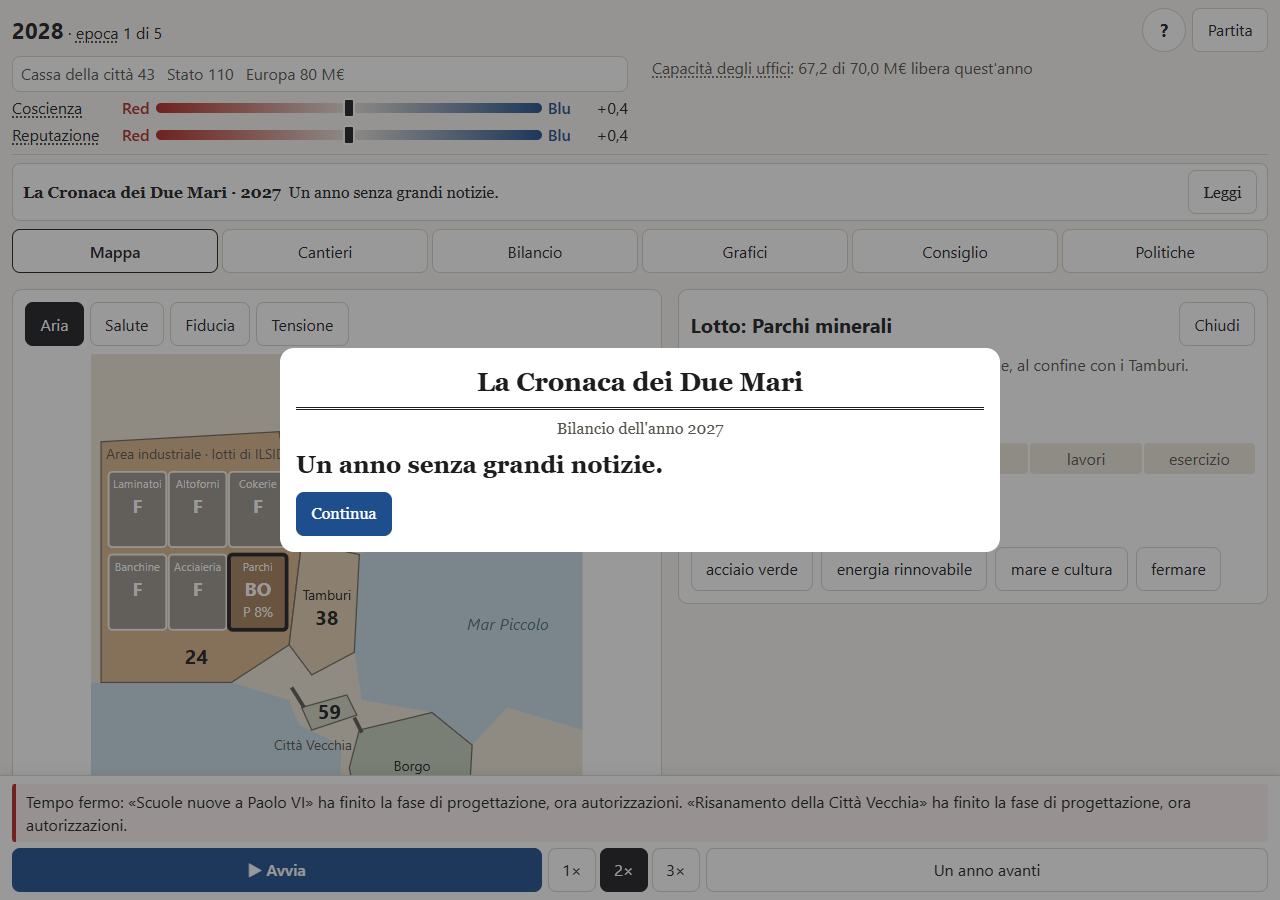
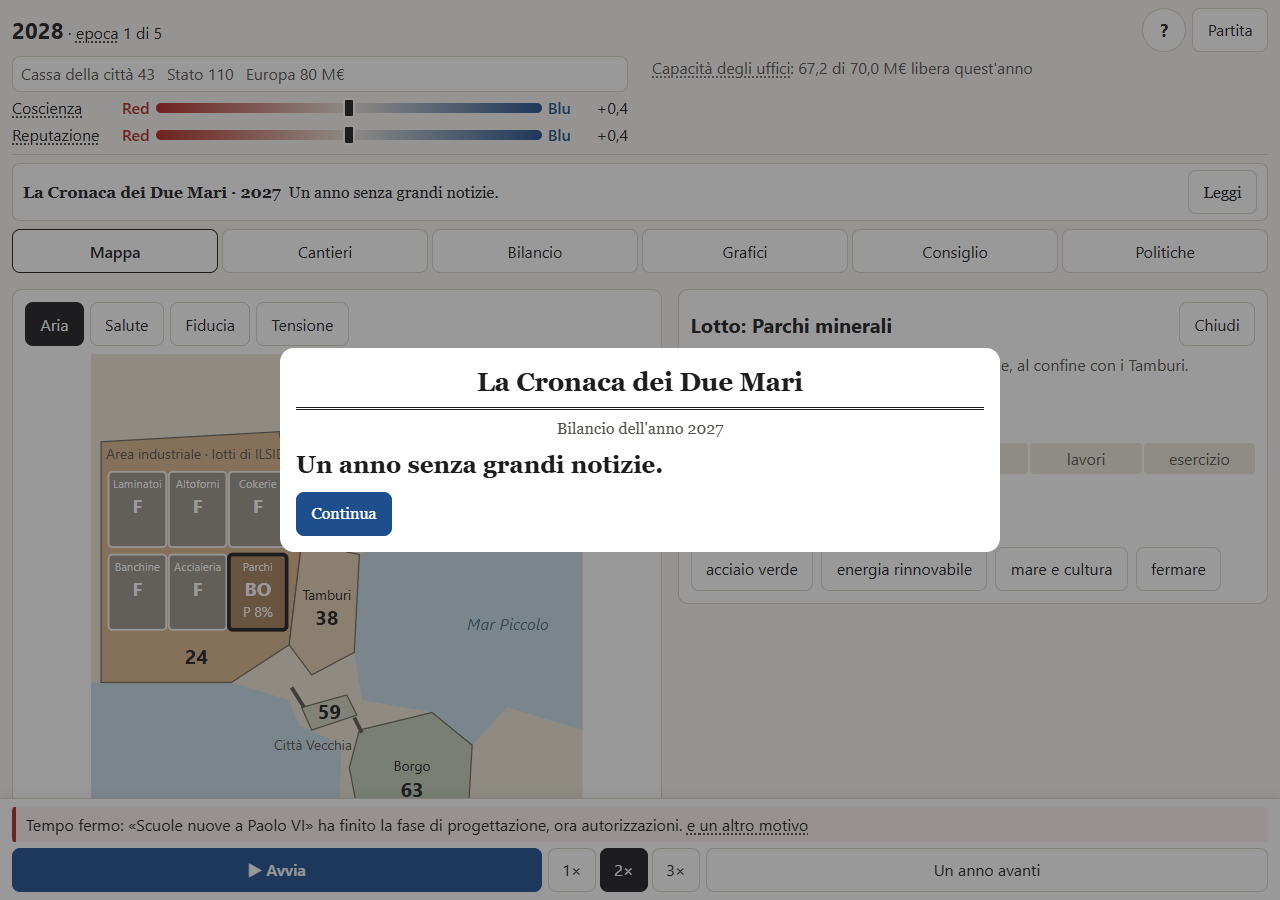
T10, correzioni di revisione: prove lunghe in pnpm test:lungo, riga di fermata con «e altri N»

Changed region(s): [[0.0, 0.84, 0.9062, 0.9333]]

diff --git a/apps/game/src/App.tsx b/apps/game/src/App.tsx
@@ -72,8 +72,11 @@ const PHASE_NAMES: Record<string, string> = {
 const time = content.guide.time;
 const stopsText = content.guide.stops;
 
-/** La riga che dice perché il tempo si è fermato. */
-export function describeStops(reasons: StopReason[], state: GameState): string {
+/**
+ * I motivi per cui il tempo si è fermato, una frase ciascuno, dal più
+ * importante (l'ordine è quello di stopReasons nel motore).
+ */
+export function stopLines(reasons: StopReason[], state: GameState): string[] {
   const parts = reasons.map((r) => {
     switch (r.kind) {
       case 'dilemma':
@@ -96,8 +99,38 @@ export function describeStops(reasons: StopReason[], state: GameState): string {
         return stopsText[r.kind]!;
     }
   });
-  const sentence = (part: string) => part.charAt(0).toLocaleUpperCase('it-IT') + part.slice(1);
-  return `${stopsText['prefisso']} ${parts.map(sentence).join(' ')}`;
+  return parts.map((part) => part.charAt(0).toLocaleUpperCase('it-IT') + part.slice(1));
+}
+
+/** Tutti i motivi in una riga sola. */
+export function describeStops(reasons: StopReason[], state: GameState): string {
+  return `${stopsText['prefisso']} ${stopLines(reasons, state).join(' ')}`;
+}
+
+/** La riga della fermata: il motivo principale e «e altri N»; al tocco, l'elenco completo. */
+export function StopLine({ lines }: { lines: string[] }) {
+  const [open, setOpen] = useState(false);
+  const [first, ...others] = lines;
+  return (
+    <div className="stop" role="status" data-testid="fermata">
+      <span>
+        {stopsText['prefisso']} {first}
+        {others.length > 0 && !open && (
+          <>
+            {' '}
+            <button type="button" className="term" onClick={() => setOpen(true)} data-testid="fermata-altri">
+              e {others.length === 1 ? 'un altro motivo' : `altri ${others.length}`}
+            </button>
+          </>
+        )}
+      </span>
+      {open && (
+        <ul className="stop-list" data-testid="fermata-elenco">
+          {others.map((line, i) => <li key={i}>{line}</li>)}
+        </ul>
+      )}
+    </div>
+  );
 }
 
 function MoralBar({ label, term, value }: { label: string; term: string; value: number }) {
@@ -165,7 +198,7 @@ function TimeBar({
   running: boolean;
   speed: number;
   canAdvance: boolean;
-  stop: string | null;
+  stop: string[] | null;
   onToggle: () => void;
   onSpeed: (speed: number) => void;
   onStep: () => void;
@@ -173,7 +206,7 @@ function TimeBar({
   return (
     <div className="timebar" data-testid="tempo" data-tour="tempo">
       {stop !== null && (
-        <p className="stop" role="status" data-testid="fermata">{stop}</p>
+        <StopLine key={stop.join('|')} lines={stop} />
       )}
       <div className="time-controls">
         <button type="button" className="primary play" onClick={onToggle} disabled={!canAdvance && !running} aria-pressed={running} data-testid={running ? 'pausa' : 'avvia'}>
@@ -214,7 +247,8 @@ export function App() {
   const [notice, setNotice] = useState<string | null>(null);
   const [running, setRunning] = useState(false);
   const [speed, setSpeed] = useState(1);
-  const [stop, setStop] = useState<string | null>(null);
+  /** Motivi dell'ultima fermata, con il loro tipo: rispondendo al dilemma restano gli altri. */
+  const [stop, setStop] = useState<{ kind: StopReason['kind']; line: string }[] | null>(null);
   const [lastSaved, setLastSaved] = useState<Date | null>(() => lastLocalSave());
   const [tour, setTour] = useState(() => !tourDone());
   const [help, setHelp] = useState(false);
@@ -243,7 +277,8 @@ export function App() {
       setCronaca({ year: result.year, headlines: result.headlines });
       setNotice(null);
       if (result.stops.length > 0) {
-        setStop(describeStops(result.stops, result.game.state));
+        const lines = stopLines(result.stops, result.game.state);
+        setStop(result.stops.map((r, i) => ({ kind: r.kind, line: lines[i]! })));
         return false;
       }
       setStop(null);
@@ -300,7 +335,10 @@ export function App() {
     const id = state.openDilemmaId!;
     const hidden = content.rules.dilemmas[id]!.options[optionId]!.hidden;
     setGame(act(game, { kind: 'answer-dilemma', dilemmaId: id, optionId }));
-    setStop(null);
+    setStop((current) => {
+      const rest = current?.filter((s) => s.kind !== 'dilemma') ?? [];
+      return rest.length > 0 ? rest : null;
+    });
     setNotice(hidden ? 'Questa era una scelta nascosta: nessuno lo sa, per ora.' : null);
   };
 
@@ -423,7 +461,7 @@ export function App() {
             running={running}
             speed={speed}
             canAdvance={!dilemmaOpen}
-            stop={stop}
+            stop={stop === null ? null : stop.map((s) => s.line)}
             onToggle={() => {
               if (!running) setStop(null);
               setRunning(!running);

diff --git a/apps/game/scripts/verifica.ts b/apps/game/scripts/verifica.ts
@@ -28,6 +28,7 @@ const BASE = `http://localhost:${PORT}/`;
 const SEED = 7;
 const problems: string[] = [];
 const stopsSeen = new Set<string>();
+let multiStops = 0;
 
 function fail(message: string): void {
   problems.push(message);
@@ -68,6 +69,12 @@ async function tidy(page: Page): Promise<void> {
 async function answerDilemma(page: Page): Promise<void> {
   await page.locator(sel('opzione')).first().click();
   await click(page, 'scegli');
+  // Chiuso il dilemma, restano gli altri motivi della fermata: con più di uno, «e altri N» apre l'elenco.
+  if (await visible(page, 'fermata-altri')) {
+    await click(page, 'fermata-altri');
+    if (!(await visible(page, 'fermata-elenco'))) fail("toccando «e altri N» non compare l'elenco dei motivi");
+    multiStops += 1;
+  }
 }
 
 /** La visita guidata: completata passo per passo, oppure saltata. */
@@ -96,6 +103,12 @@ async function runUntilStop(page: Page): Promise<'dilemma' | 'finale' | 'fermata
   await page.waitForSelector(`${sel('avvia')}, ${sel('dilemma')}, ${sel('finale')}`, { timeout: 180_000 });
   if (await visible(page, 'finale')) return 'finale';
   if (await visible(page, 'fermata')) {
+    // Più motivi: si vede il principale e «e altri N»; al tocco compare l'elenco completo.
+    if ((await visible(page, 'fermata-altri')) && !(await visible(page, 'dilemma'))) {
+      await click(page, 'fermata-altri');
+      if (!(await visible(page, 'fermata-elenco'))) fail('toccando «e altri N» non compare l\'elenco dei motivi');
+      multiStops += 1;
+    }
     const line = (await page.locator(sel('fermata')).textContent()) ?? '';
     stopsSeen.add(line.replace(/«[^»]*»/g, '«…»').replace(/\d+/g, 'N'));
   }
@@ -324,6 +337,8 @@ async function main(): Promise<void> {
     if (process.platform === 'win32' && server.pid !== undefined) execSync(`taskkill /pid ${server.pid} /T /F`, { stdio: 'ignore' });
     else server.kill();
   }
+  if (multiStops === 0) fail('nessuna fermata con più motivi: «e altri N» non verificato');
+  console.log(`\nFermate con più motivi aperte al tocco: ${multiStops}.`);
   console.log(`\nFermate del tempo viste (${stopsSeen.size} tipi di riga):`);
   for (const line of [...stopsSeen].sort()) console.log(`  ${line}`);
   if (problems.length > 0) {

diff --git a/apps/game/src/experience.test.tsx b/apps/game/src/experience.test.tsx
@@ -2,7 +2,7 @@
 import { DISTRICT_IDS, type StopReason } from '@taranto2127/sim';
 import { renderToString } from 'react-dom/server';
 import { describe, expect, it } from 'vitest';
-import { describeStops } from './App.js';
+import { StopLine, describeStops, stopLines } from './App.js';
 import { BudgetView } from './budget.js';
 import { DistrictCard } from './cards.js';
 import { ChartsView, MIN_CHART_YEARS, Sparkline, verticalScale } from './charts.js';
@@ -114,6 +114,17 @@ describe('il tempo', () => {
     const first = reasons[0]!;
     if (first.kind === 'dilemma') expect(describeStops([first], state)).toContain(content.texts.dilemmas[first.dilemmaId]!.titolo);
     expect(describeStops([reasons[5]!], state)).toContain("l'epoca 2 di 5");
+  });
+
+  it('la riga mostra il motivo principale e «e altri N»; l’elenco completo si apre al tocco', () => {
+    const lines = stopLines(reasons, state);
+    expect(lines).toHaveLength(reasons.length);
+    const html = renderToString(<StopLine lines={lines} />);
+    expect(html).toContain(lines[0]!.replace(/'/g, '&#x27;'));
+    expect(html).toContain(`altri ${lines.length - 1}`);
+    expect(html).not.toContain(lines[1]!.slice(0, 20).replace(/'/g, '&#x27;'));
+    expect(renderToString(<StopLine lines={lines.slice(0, 2)} />)).toContain('un altro motivo');
+    expect(renderToString(<StopLine lines={lines.slice(0, 1)} />)).not.toContain('fermata-altri');
   });
 });
 

diff --git a/apps/game/src/styles.css b/apps/game/src/styles.css
@@ -77,6 +77,7 @@ button.funds { justify-content: flex-start; flex-wrap: wrap; gap: 4px 12px; min-
 .speed { width: 48px; padding: 0; }
 .speed.on { background: var(--ink); color: #fff; border-color: var(--ink); }
 .time-controls .step { flex: 1 1 100%; }
+.stop-list { margin: 4px 0 0; padding-left: 1.2em; max-height: 30vh; overflow-y: auto; }
 .stop { margin: 0 auto 6px; max-width: 1280px; padding: 6px 10px; border-left: 4px solid var(--red); background: #fbf2ef; border-radius: 4px; }
 @media (min-width: 600px) { .time-controls .step { flex: 1 1 10em; } }
 

diff --git a/packages/content/src/dilemma-interval.lungo.ts b/packages/content/src/dilemma-interval.lungo.ts
@@ -1,4 +1,7 @@
-/** T10: in 1.000 partite casuali nessun dilemma torna prima del suo intervallo. */
+/**
+ * T10: in 1.000 partite casuali nessun dilemma torna prima del suo intervallo.
+ * Prova lunga: si esegue con `pnpm test:lungo`, non con `pnpm test`.
+ */
 import { describe, expect, it } from 'vitest';
 import { checkDilemmaInterval } from './test-support/dilemma-interval.js';
 

diff --git a/vitest.lungo.config.ts b/vitest.lungo.config.ts
@@ -1,0 +1,10 @@
+import { defineConfig } from 'vitest/config';
+
+// Prove lunghe (`pnpm test:lungo`): fuori da `pnpm test`, che deve restare sotto il minuto.
+// Le esegue la procedura di GitHub a ogni invio su main.
+export default defineConfig({
+  test: {
+    include: ['packages/**/src/**/*.lungo.ts'],
+    testTimeout: 120_000,
+  },
+});
